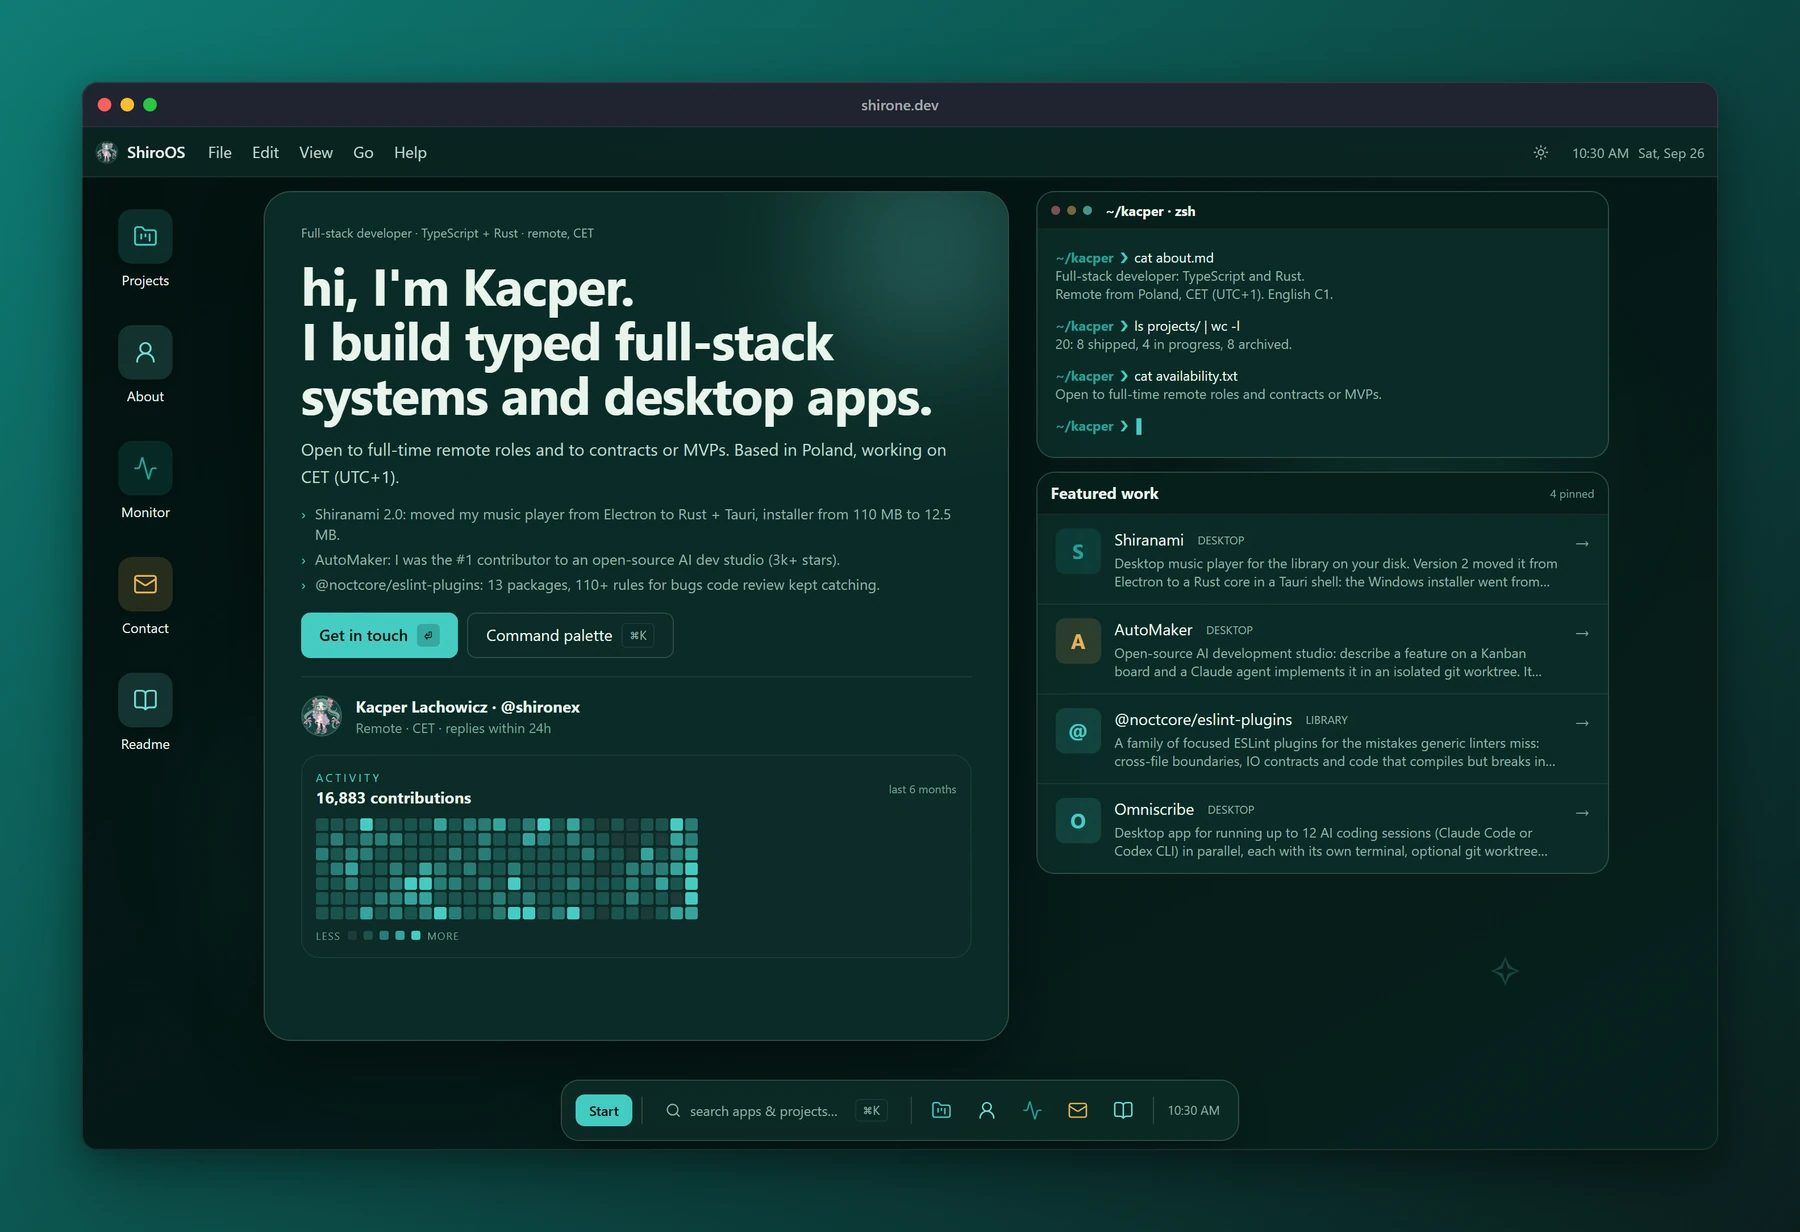
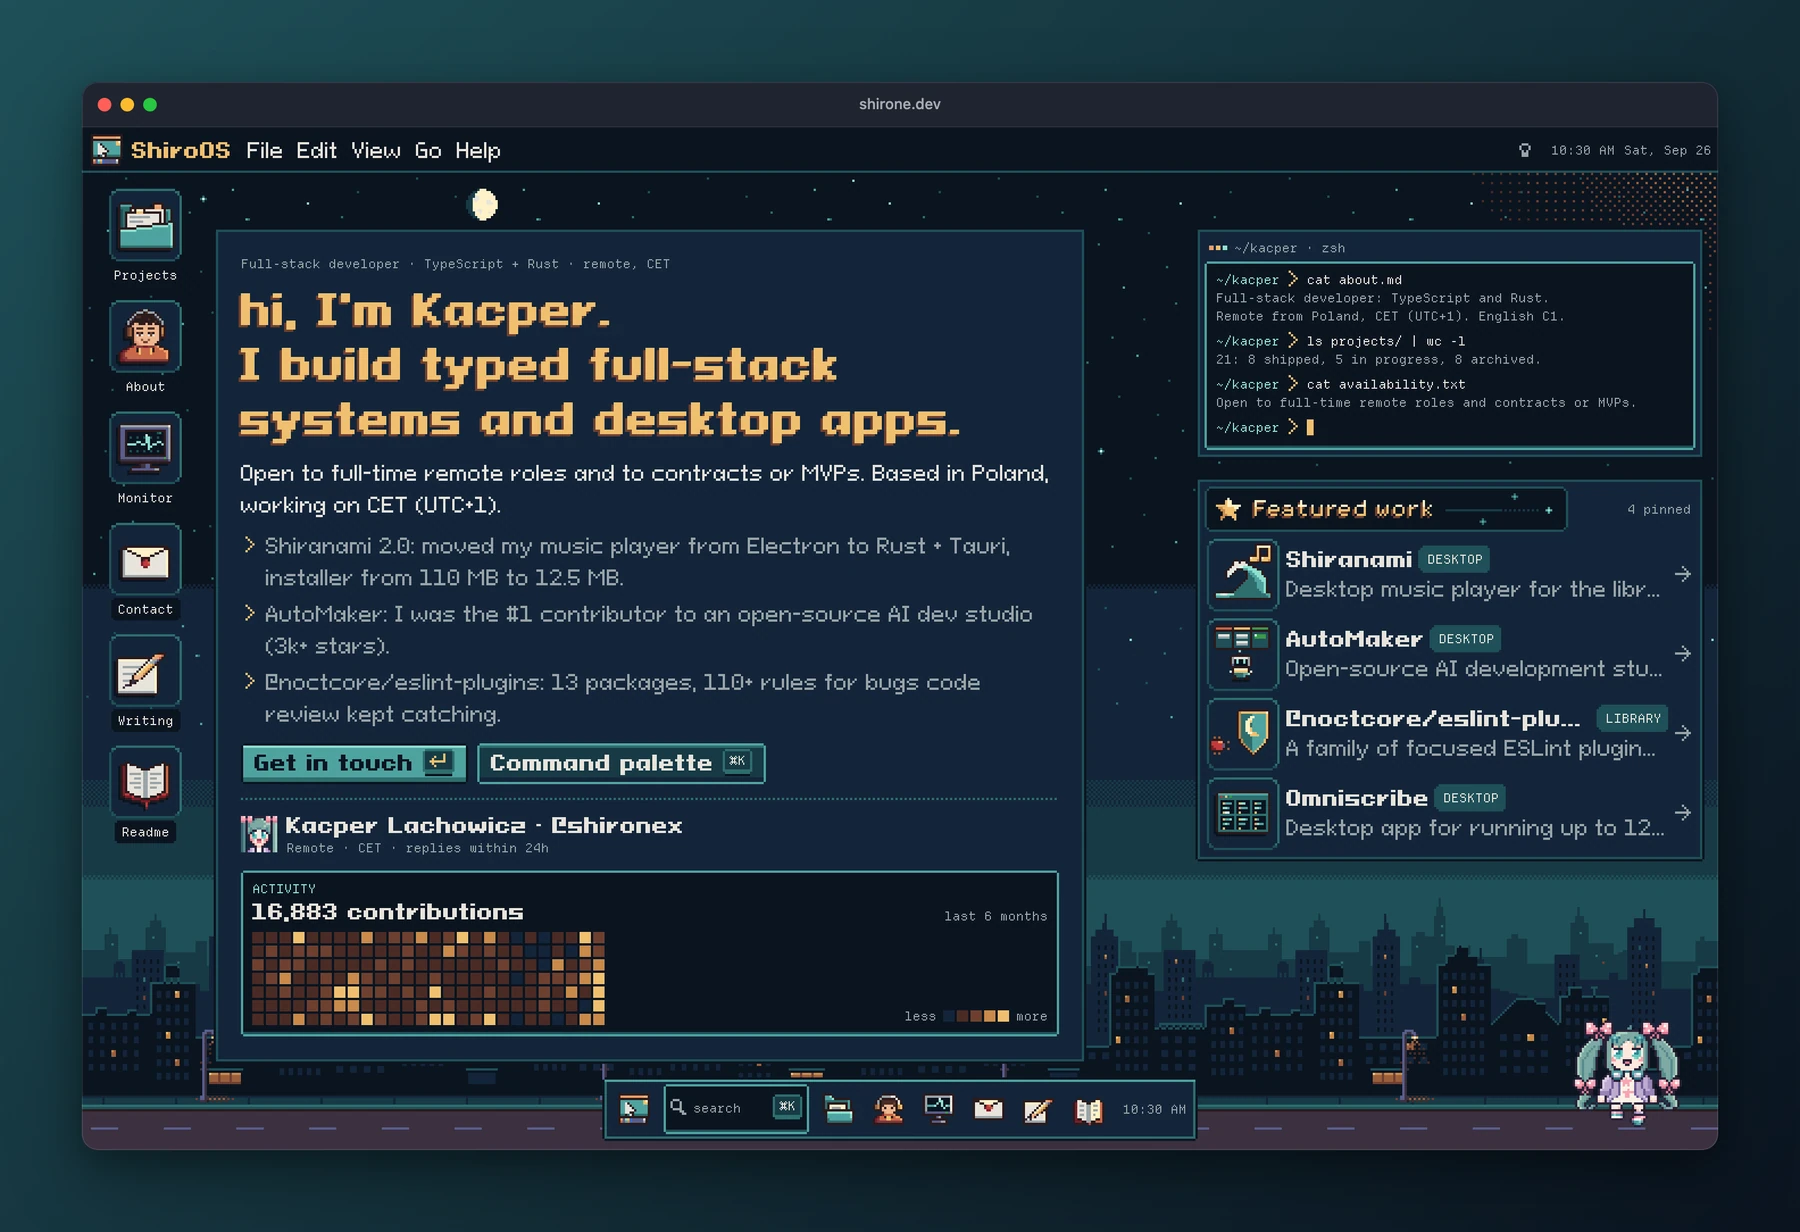
docs(readme): recapture the showcase images in the pixel design

diff --git a/README.md b/README.md
@@ -42,7 +42,7 @@ This is my portfolio. Instead of a long scrolling page, it opens as a desktop: m
     <td width="50%"><img src="assets/showcase/projects.webp" alt="shirone.dev: Projects" /></td>
   </tr>
   <tr>
-    <td align="center"><sub>The desktop: who I am, a short shell transcript, featured projects and my GitHub activity.</sub></td>
+    <td align="center"><sub>The desktop: a pixel night city, who I am, a short shell transcript, featured projects and my GitHub activity.</sub></td>
     <td align="center"><sub>Projects: everything I have built, filterable by status.</sub></td>
   </tr>
   <tr>
